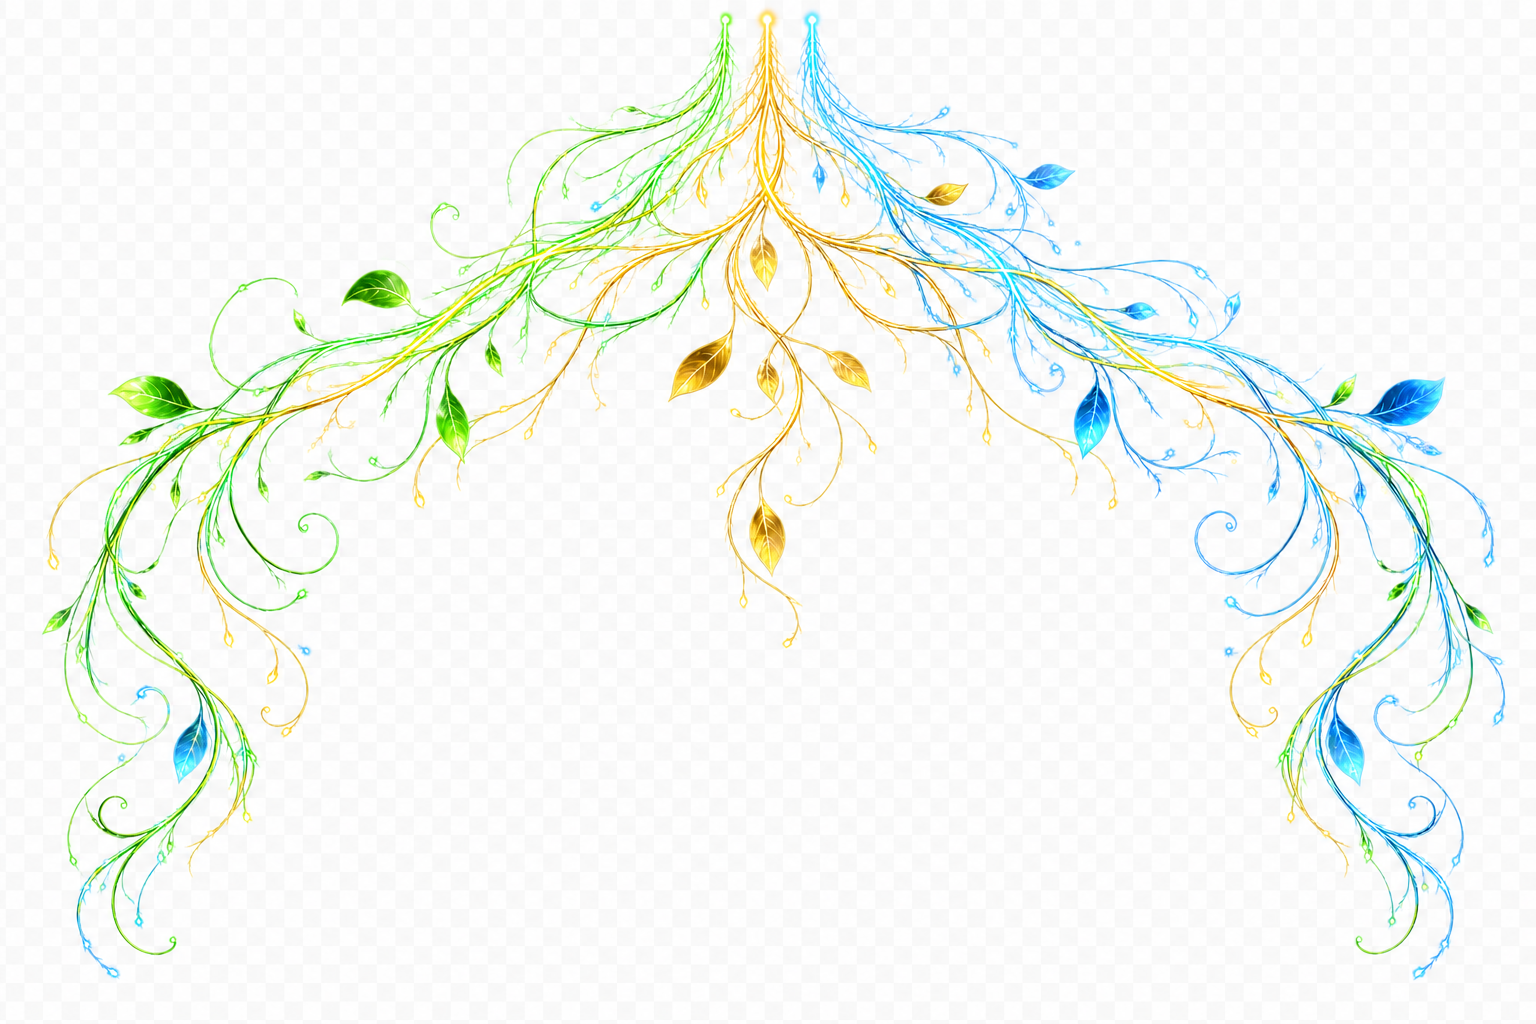
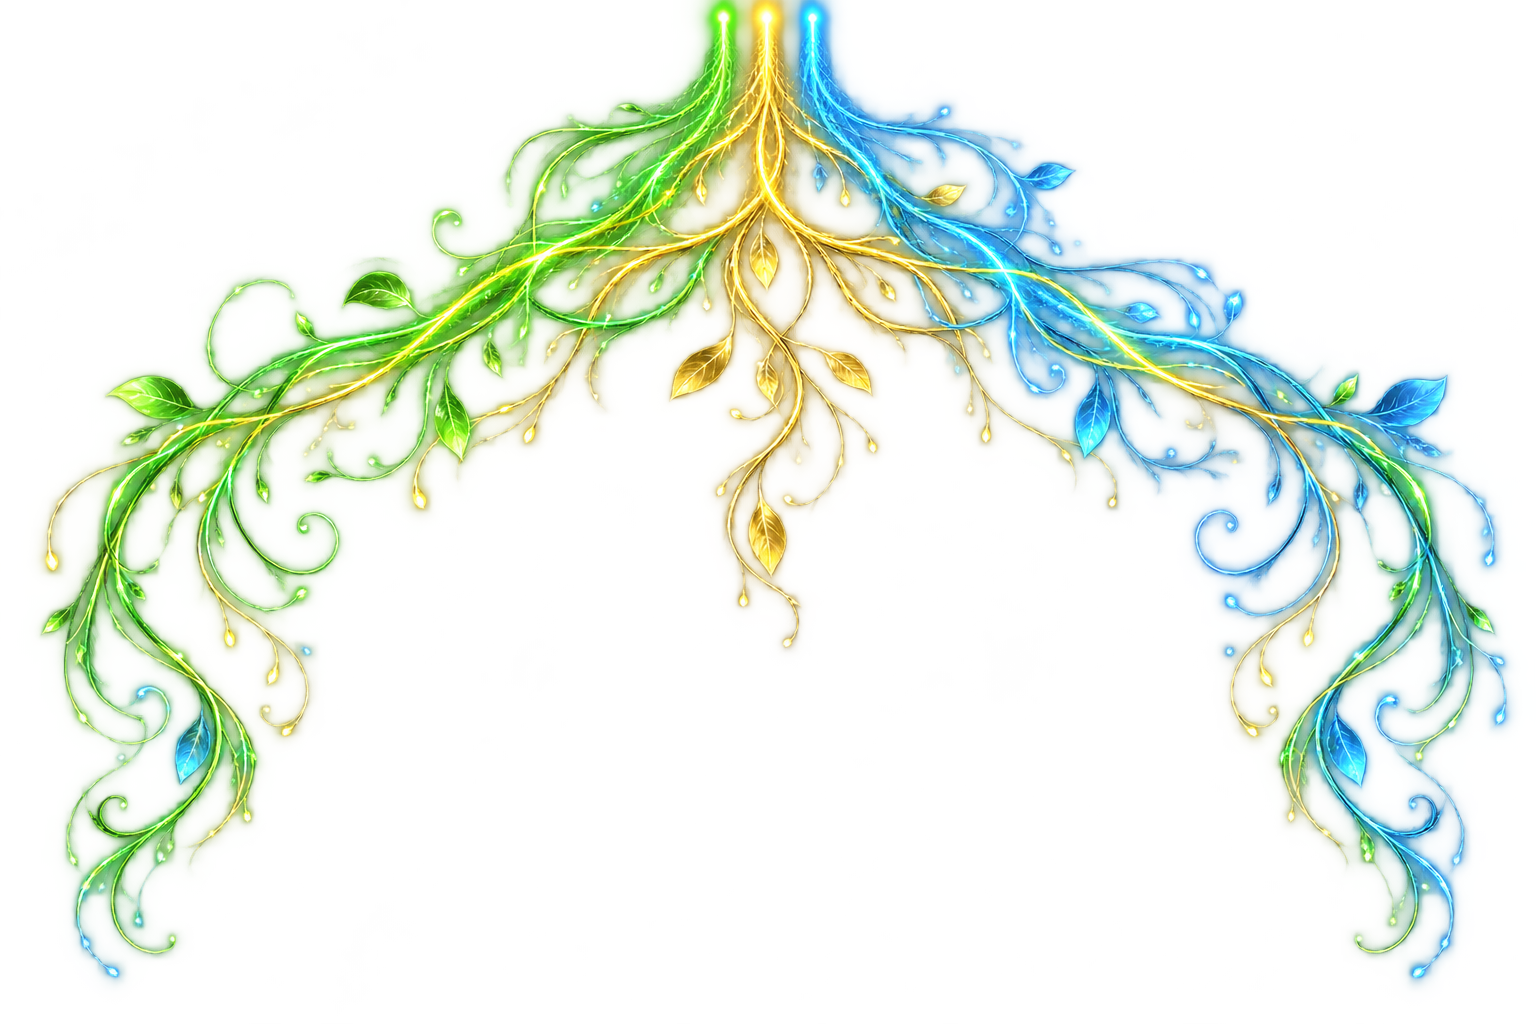
Use transparent header root ornament

Changed region(s): [[0.0, 0.0, 1.0, 0.9688], [0.1562, 0.25, 0.1875, 0.2812]]

diff --git a/styles.css b/styles.css
@@ -19,7 +19,7 @@ body::after{content:"";position:fixed;inset:0;z-index:0;background:linear-gradie
 .resume-dialog{background:linear-gradient(145deg,rgba(26,39,59,.98),rgba(13,21,35,.97));backdrop-filter:blur(18px)}
 .site-title{position:relative;display:flex;flex-direction:column;align-items:center;justify-content:center;gap:8px;margin:0 0 126px;text-align:center;color:#f6f8fc;font-size:clamp(24px,4vw,34px);font-weight:800;letter-spacing:-.04em;text-wrap:balance;text-shadow:0 4px 22px rgba(0,0,0,.48);overflow:visible}
 .site-title img{position:relative;z-index:1;display:block;width:144px;height:144px;object-fit:contain;filter:drop-shadow(0 9px 17px rgba(0,0,0,.42))}
-.header-root-vines{position:absolute;z-index:0;top:124px;width:min(100vw,620px);height:auto;pointer-events:none;user-select:none;opacity:.88;mix-blend-mode:screen}
+.header-root-vines{position:absolute;z-index:0;top:124px;width:min(100vw,620px);height:auto;pointer-events:none;user-select:none;opacity:.48;mix-blend-mode:screen}
 .onboarding-title{position:relative;z-index:1;display:inline-flex;align-items:center;justify-content:center;gap:.42em;padding:10px 17px;border:1px solid rgba(202,218,241,.3);border-radius:16px;background:linear-gradient(135deg,rgba(255,255,255,.055),rgba(103,127,175,.025));box-shadow:inset 0 1px 0 rgba(255,255,255,.18),inset 0 -1px 0 rgba(4,8,17,.55),0 8px 23px rgba(0,0,0,.16);font-size:clamp(17px,2.5vw,25px);font-weight:850;letter-spacing:.055em;line-height:1.15}
 .onboarding-title span{display:inline-block;background-clip:text;-webkit-background-clip:text;color:transparent;text-shadow:none}.title-onboarding{background-image:linear-gradient(135deg,#8ff3c7,#34c990)}.title-pentru{background-image:linear-gradient(135deg,#ffe89a,#d9aa3b)}.title-curieri{background-image:linear-gradient(135deg,#a8e7ff,#41a8ed)}
 
@@ -97,7 +97,7 @@ body::after{content:"";position:fixed;inset:0;z-index:0;background:linear-gradie
   .step.current .bolt-icon{transform:translate(-14px,-4px) scale(1.5)}
 }
 
-@media(max-width:560px){.site-title{gap:5px;margin-bottom:126px;font-size:clamp(23px,7vw,30px);line-height:1.16}.site-title>img:not(.header-root-vines){width:148px;height:148px}.header-root-vines{top:128px;width:138vw;max-width:none;opacity:.8}.onboarding-title{gap:.34em;padding:9px 12px;border-radius:14px;font-size:clamp(16px,5vw,21px);letter-spacing:.045em;white-space:nowrap}}
+@media(max-width:560px){.site-title{gap:5px;margin-bottom:126px;font-size:clamp(23px,7vw,30px);line-height:1.16}.site-title>img:not(.header-root-vines){width:148px;height:148px}.header-root-vines{top:128px;width:138vw;max-width:none;opacity:.44}.onboarding-title{gap:.34em;padding:9px 12px;border-radius:14px;font-size:clamp(16px,5vw,21px);letter-spacing:.045em;white-space:nowrap}}
 
 /* Registration artwork has the same visual scale as the other custom step marks. */
 .registration-icon img{width:51px;height:51px}
